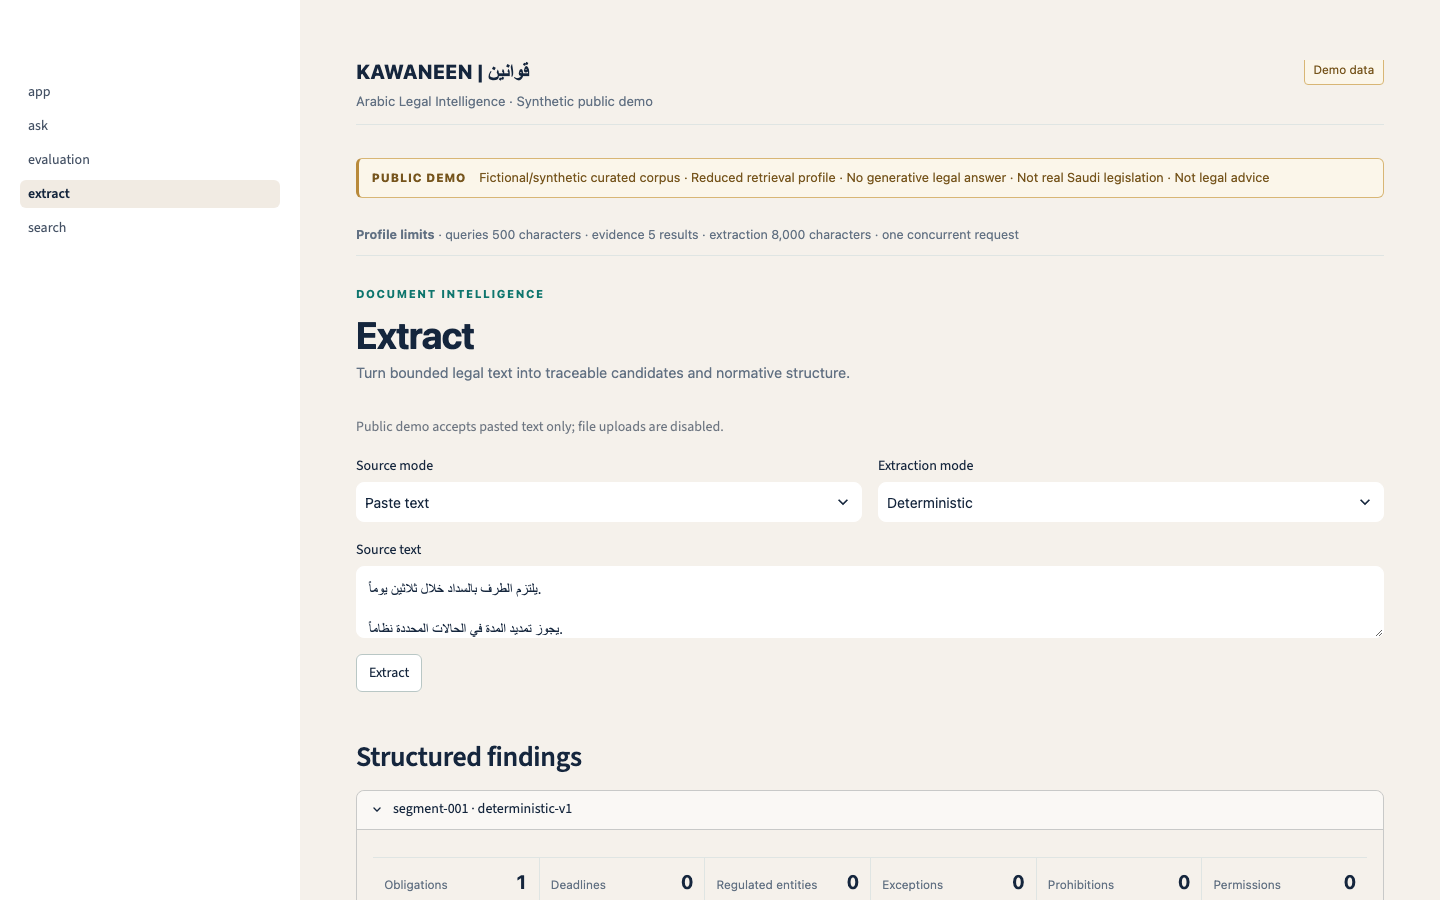
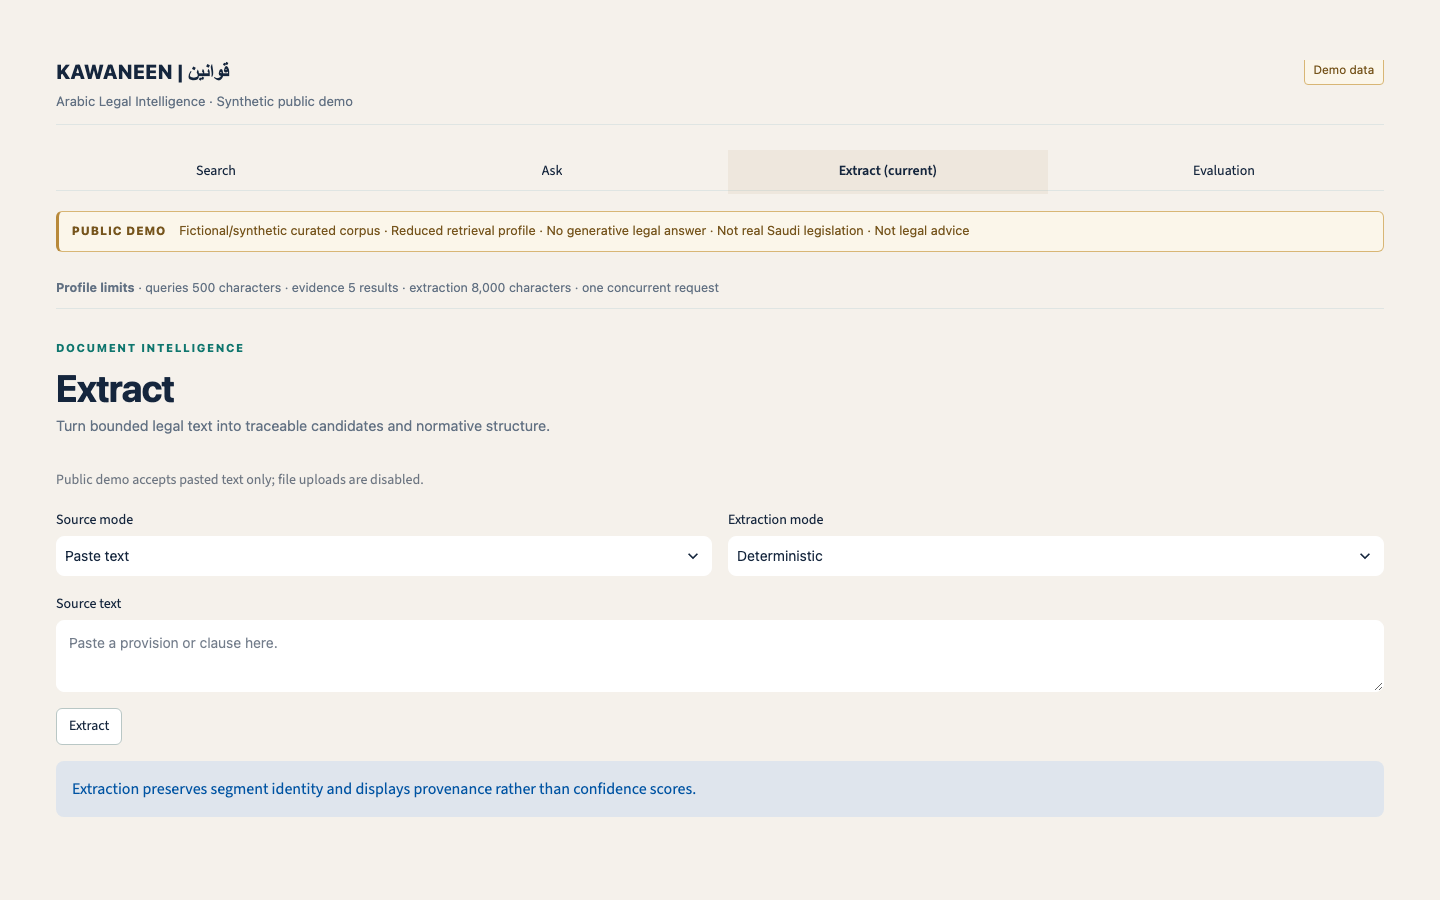
feat: remove Streamlit rail and simplify evaluation view

diff --git a/tests/test_ui_app.py b/tests/test_ui_app.py
@@ -18,10 +18,24 @@ class _Navigation:
         self.ran = True
 
 
+class _Column:
+    def __enter__(self) -> _Column:
+        return self
+
+    def __exit__(self, *_: object) -> None:
+        return None
+
+
+class _Container(_Column):
+    pass
+
+
 class _AppStreamlit:
     def __init__(self) -> None:
         self.config: dict[str, object] = {}
         self.pages: list[object] = []
+        self.page_links: list[tuple[object, str | None]] = []
+        self.navigation_position: str | None = None
         self.navigation_result = _Navigation()
 
     def set_page_config(self, **kwargs: object) -> None:
@@ -32,8 +46,19 @@ class _AppStreamlit:
         self.pages.append(page)
         return page
 
-    def navigation(self, pages: list[object], **_: object) -> _Navigation:
+    def columns(self, spec: int | list[int], **_: object) -> list[_Column]:
+        count = spec if isinstance(spec, int) else len(spec)
+        return [_Column() for _ in range(count)]
+
+    def container(self, **_: object) -> _Container:
+        return _Container()
+
+    def page_link(self, page: object, *, label: str | None = None, **_: object) -> None:
+        self.page_links.append((page, label))
+
+    def navigation(self, pages: list[object], **kwargs: object) -> _Navigation:
         assert pages == self.pages
+        self.navigation_position = str(kwargs["position"])
         return self.navigation_result
 
 
@@ -52,6 +77,31 @@ def test_main_configures_and_runs_the_four_page_navigation(monkeypatch) -> None:
     ]
     assert all(not getattr(page, "icon", None) for page in fake.pages)
     assert fake.navigation_result.ran is True
+
+
+def test_main_hides_builtin_navigation(monkeypatch) -> None:
+    fake = _AppStreamlit()
+    monkeypatch.setattr(app, "st", fake)
+
+    app.main()
+
+    assert fake.navigation_position == "hidden"
+
+
+def test_product_navigation_uses_existing_page_paths_and_labels(monkeypatch) -> None:
+    import kawaneen.ui.components as components
+
+    fake = _AppStreamlit()
+    monkeypatch.setattr(components, "st", fake)
+
+    components.render_product_navigation("Search")
+
+    assert fake.page_links == [
+        ("pages/search.py", "Search (current)"),
+        ("pages/ask.py", "Ask"),
+        ("pages/extract.py", "Extract"),
+        ("pages/evaluation.py", "Evaluation"),
+    ]
 
 
 def _run() -> AppTest:

diff --git a/src/kawaneen/ui/styles.py b/src/kawaneen/ui/styles.py
@@ -28,13 +28,22 @@ def inject_css() -> None:
         .block-container { max-width:1440px; padding:1.25rem clamp(1.5rem, 4vw, 3.5rem) 4rem; }
         [data-testid="stHeader"] { background:var(--kw-canvas); box-shadow:none; }
         [data-testid="stToolbar"] { visibility:hidden; height:0; }
-        [data-testid="stNavigation"] { border-bottom:1px solid var(--kw-line); }
-        [data-testid="stTopNavLinkContainer"], [data-testid="stTopNavLink"] {
-          visibility:visible !important;
-        }
         [data-testid="stPageLink-NavLink"] { color:var(--kw-ink); }
+        [data-testid="stPageLink-NavLink"] {
+          align-items:center; border-bottom:2px solid transparent; border-radius:0;
+          display:flex; justify-content:center; min-height:2.35rem; padding:.45rem .6rem;
+        }
+        [data-testid="stPageLink-NavLink"]:hover {
+          background:#eef5f3; color:var(--kw-teal);
+        }
         [data-testid="stPageLink-NavLink"][aria-current="page"] {
-          border-bottom:2px solid var(--kw-teal); color:var(--kw-teal); font-weight:700;
+          background:#eef5f3; border-bottom:2px solid var(--kw-teal); color:var(--kw-teal);
+          font-weight:700;
+        }
+        .st-key-kw-product-navigation {
+          align-self:flex-start; background:var(--kw-canvas);
+          border-bottom:1px solid var(--kw-line);
+          position:sticky; top:60px; z-index:1000000;
         }
         .block-container h1 { color:var(--kw-ink); font-size:2.35rem !important;
           letter-spacing:-.025em; line-height:1.15; margin:.65rem 0 .25rem !important; }

diff --git a/src/kawaneen/ui/components.py b/src/kawaneen/ui/components.py
@@ -14,8 +14,24 @@ from kawaneen.ui.formatting import highlight_literal, text_direction
 from kawaneen.ui.state import UiSessionState, activate_demo_mode
 from kawaneen.ui.styles import inject_css
 
+_PRODUCT_NAVIGATION = (
+    ("pages/search.py", "Search"),
+    ("pages/ask.py", "Ask"),
+    ("pages/extract.py", "Extract"),
+    ("pages/evaluation.py", "Evaluation"),
+)
 
-def render_product_header(state: UiSessionState) -> None:
+
+def render_product_navigation(active_page: str | None = None) -> None:
+    with st.container(key="kw-product-navigation"):
+        columns = st.columns(len(_PRODUCT_NAVIGATION), gap="small", vertical_alignment="center")
+        for column, (path, label) in zip(columns, _PRODUCT_NAVIGATION, strict=True):
+            with column:
+                visible_label = f"{label} (current)" if label == active_page else label
+                st.page_link(path, label=visible_label, width="stretch")
+
+
+def render_product_header(state: UiSessionState, active_page: str | None = None) -> None:
     inject_css()
     status_class = (
         "demo"
@@ -41,6 +57,7 @@ def render_product_header(state: UiSessionState) -> None:
         </div>
         """,
     )
+    render_product_navigation(active_page)
     if state.settings.public_demo:
         st.html(
             """

diff --git a/src/kawaneen/ui/pages/evaluation.py b/src/kawaneen/ui/pages/evaluation.py
@@ -25,7 +25,7 @@ from kawaneen.ui.state import get_context
 
 def render() -> None:
     client, state = get_context()
-    render_product_header(state)
+    render_product_header(state, active_page="Evaluation")
     if not render_status_gate(state):
         return
     render_mode_note(state)
@@ -66,13 +66,6 @@ def render() -> None:
         st.markdown("### Key measured evidence")
         st.markdown("#### Tracked retrieval comparison")
         st.caption("Common tracked metrics and splits only; values are not rerun in this UI.")
-        chart_data: dict[str, list[float]] = {}
-        for row in retrieval_rows:
-            label = f"{row['split']} · {row['model']} · {row['metric']}"
-            value = row["value"]
-            if isinstance(value, (int, float)):
-                chart_data[label] = [float(value)]
-        st.bar_chart(chart_data, horizontal=True)
     capability_heading = (
         "Model capability snapshot" if state.active_mode is UiMode.DEMO else "Live API readiness"
     )

diff --git a/tests/test_ui_components.py b/tests/test_ui_components.py
@@ -1,5 +1,8 @@
 from __future__ import annotations
 
+from collections.abc import Iterator
+from contextlib import contextmanager
+
 from kawaneen.ui.config import ModeResolution, UiMode, UiSettings
 from kawaneen.ui.state import UiSessionState
 
@@ -9,8 +12,24 @@ class _HeaderStreamlit:
         self.html_blocks: list[str] = []
         self.warnings: list[str] = []
 
+    def __enter__(self) -> _HeaderStreamlit:
+        return self
+
+    def __exit__(self, *_: object) -> None:
+        return None
+
     def html(self, body: str) -> None:
         self.html_blocks.append(body)
+
+    @contextmanager
+    def container(self, **_: object) -> Iterator[_HeaderStreamlit]:
+        yield self
+
+    def columns(self, count: int, **_: object) -> list[_HeaderStreamlit]:
+        return [self for _ in range(count)]
+
+    def page_link(self, *_: object, **__: object) -> None:
+        return None
 
     def warning(self, message: str) -> None:
         self.warnings.append(message)

diff --git a/tests/test_ui_aaa_render_coverage.py b/tests/test_ui_aaa_render_coverage.py
@@ -30,6 +30,10 @@ class FakeStreamlit:
     def expander(self, _: str, **__: object) -> Iterator[FakeStreamlit]:
         yield self
 
+    @contextmanager
+    def container(self, **__: object) -> Iterator[FakeStreamlit]:
+        yield self
+
     def columns(self, count: int | list[int], **__: object) -> list[FakeStreamlit]:
         return [self for _ in range(count if isinstance(count, int) else len(count))]
 

diff --git a/src/kawaneen/ui/app.py b/src/kawaneen/ui/app.py
@@ -13,7 +13,8 @@ def main() -> None:
         st.Page("pages/extract.py", title="Extract", url_path="extract"),
         st.Page("pages/evaluation.py", title="Evaluation", url_path="evaluation"),
     ]
-    st.navigation(pages, position="top").run()
+    navigation = st.navigation(pages, position="hidden")
+    navigation.run()
 
 
 if __name__ == "__main__":

diff --git a/src/kawaneen/ui/pages/extract.py b/src/kawaneen/ui/pages/extract.py
@@ -22,7 +22,7 @@ from kawaneen.ui.uploads import extract_text, segment_text, validate_upload
 
 def render() -> None:
     client, state = get_context()
-    render_product_header(state)
+    render_product_header(state, active_page="Extract")
     if not render_status_gate(state):
         return
     render_mode_note(state)

diff --git a/src/kawaneen/ui/pages/search.py b/src/kawaneen/ui/pages/search.py
@@ -19,7 +19,7 @@ from kawaneen.ui.state import get_context
 
 def render() -> None:
     client, state = get_context()
-    render_product_header(state)
+    render_product_header(state, active_page="Search")
     if not render_status_gate(state):
         return
     render_mode_note(state)

diff --git a/src/kawaneen/ui/pages/ask.py b/src/kawaneen/ui/pages/ask.py
@@ -22,7 +22,7 @@ from kawaneen.ui.state import get_context
 
 def render() -> None:
     client, state = get_context()
-    render_product_header(state)
+    render_product_header(state, active_page="Ask")
     if not render_status_gate(state):
         return
     render_mode_note(state)
